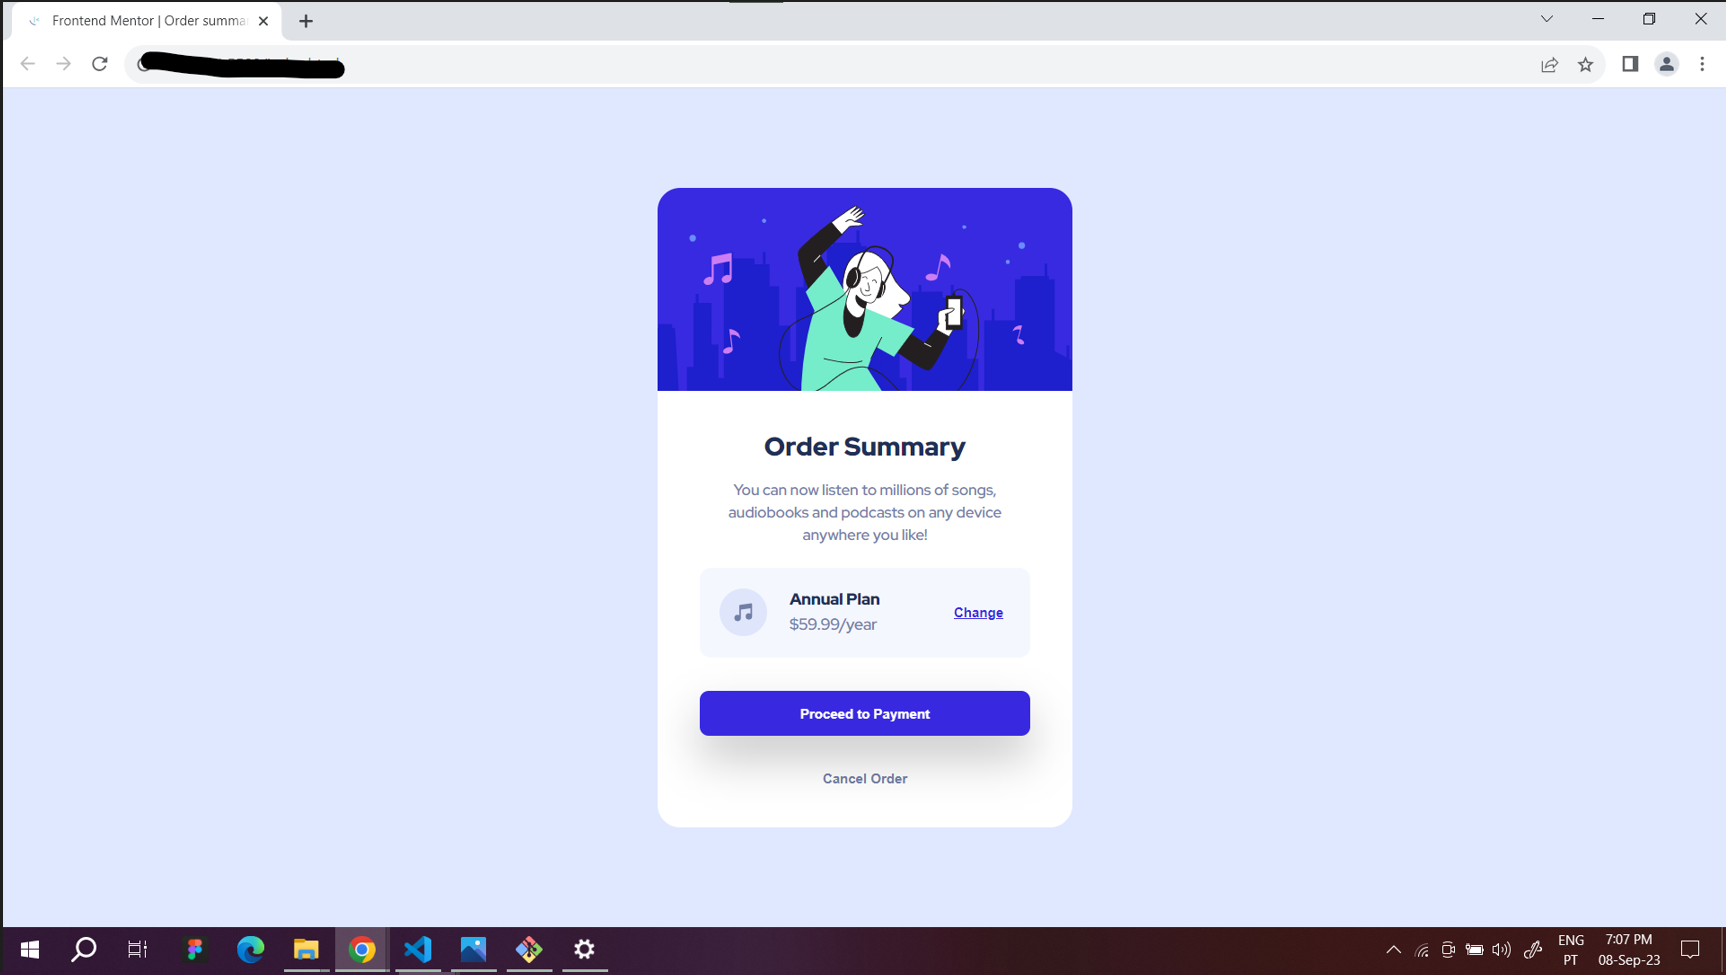
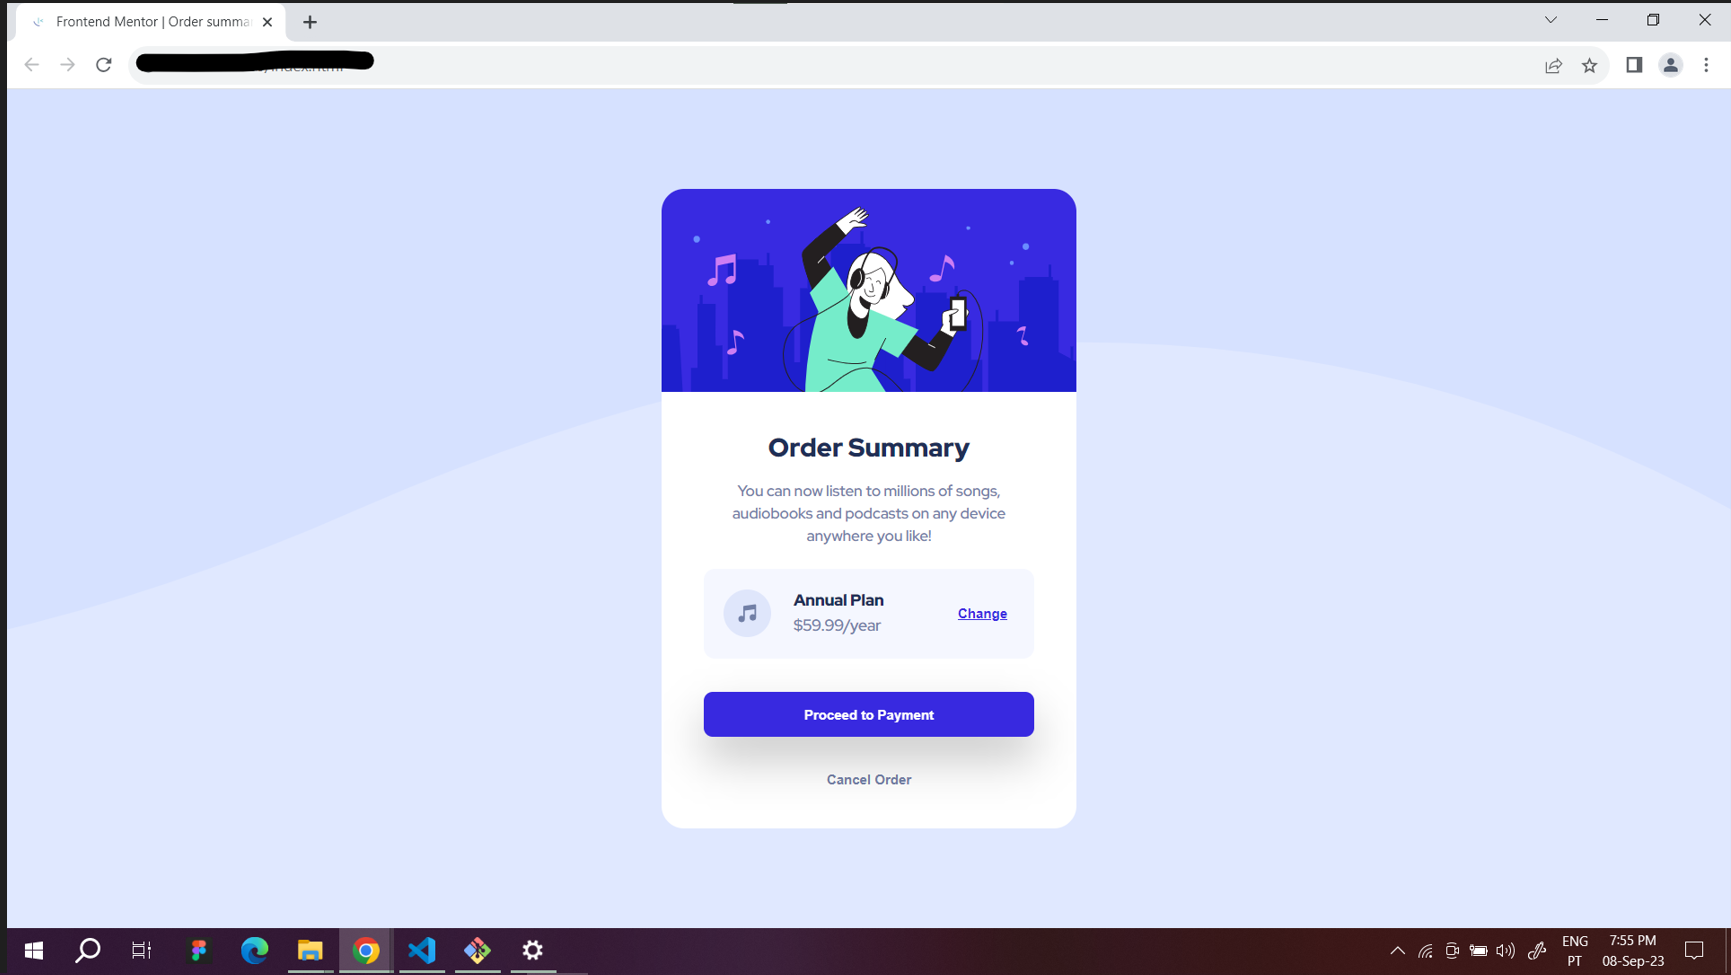
Updated final version

diff --git a/style.css b/style.css
@@ -59,9 +59,12 @@ body{
     min-width: 100svw;
     min-height: 100svh;
     margin: 0px;
-    overflow: hidden;
-    background-color: var(--clr-primary-200);
     font-family: var(--ff-base);
+    overflow: hidden;
+    background: url(Images/pattern-background-mobile.svg) no-repeat center/cover;
+    position: relative;
+    background-position: right 0vw bottom 40vh;
+    background-color: var(--clr-primary-200);
 }
 
 .card{
@@ -178,6 +181,13 @@ button:hover{
 }
 
 @media (min-width: 700px){
+    body{
+        background: url(Images/pattern-background-desktop.svg) no-repeat center/cover;
+        position: relative;
+        background-position: right 0vw bottom 30vh;
+        background-color: var(--clr-primary-200);
+    }
+
     .card{
         width: 370px;
     }
